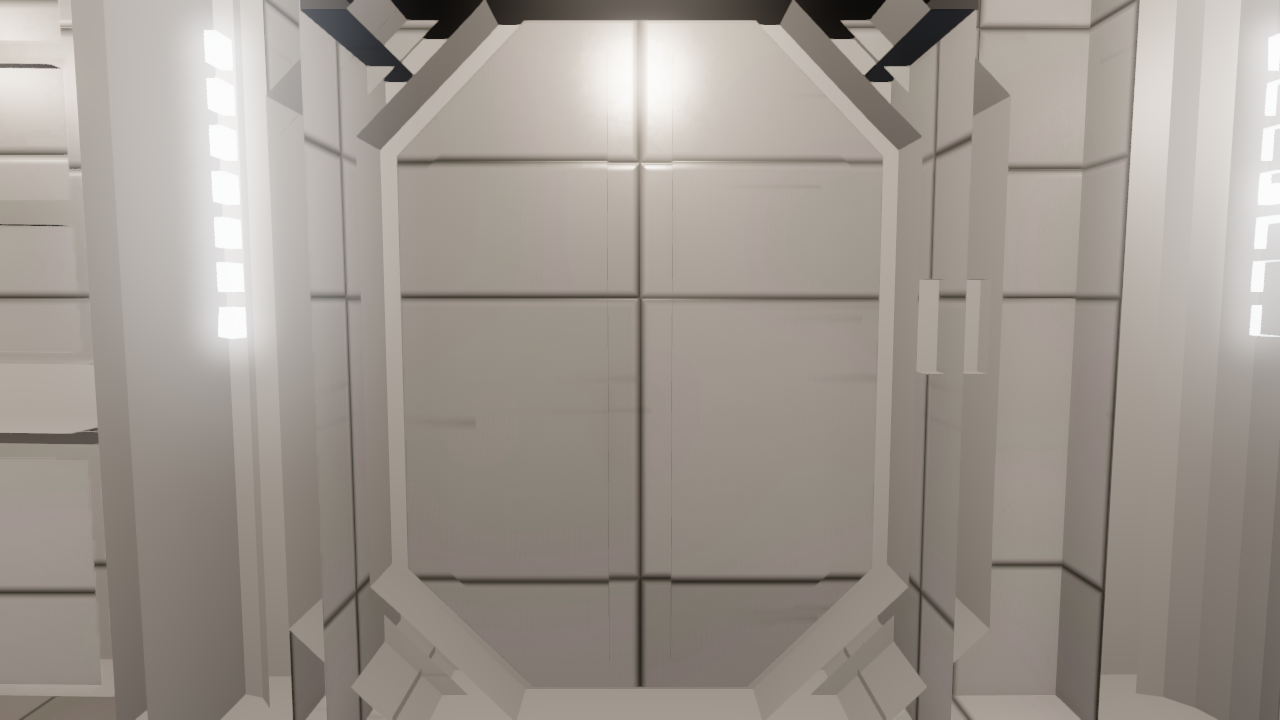
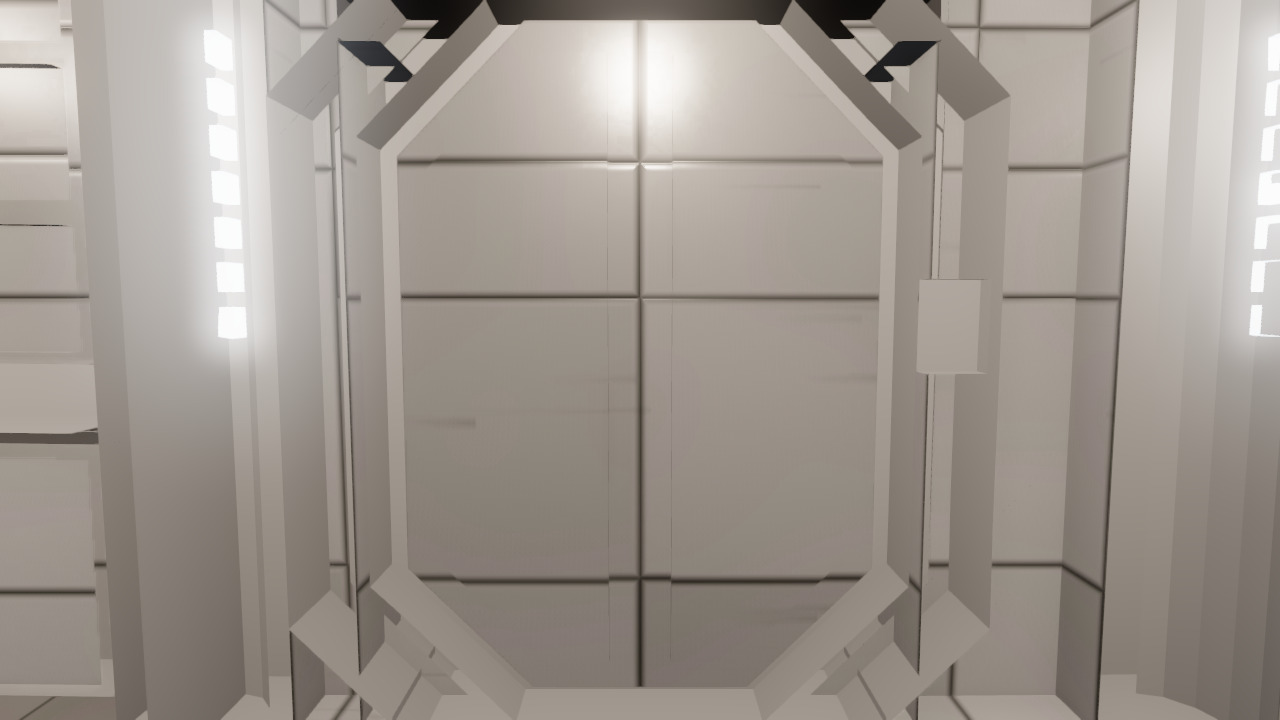
Stop every vestibule standing 0.219 m proud inside the corridor
The other half of judge-3w's door finding, and the last geometric one at that
doorway. It described "the dark jamb pieces are the neighbouring room's wall
panelling standing proud through the corridor's white wall"; that is literally
what it is.

`build_deck` ended each render vestibule at `cz - corridor_profile()["half_w"]`
-- the MEASURED COLLISION plane at 1.0806 m -- while the corridor's render wall
is at `corridor_width_m / 2` = 1.30 m. So a 2.1 m tall passage projected 0.219 m
into a 3.0 m corridor at all six doors, showing its top face and both flanks
through the wall. It is the same 0.219 m as the collision hole earlier in this
session, inherited rather than coincidental: the shell was correctly moved onto
the measured plane and this expression was copied along with it. The render
passage stops at the render wall; the collision passage stops at the collision
wall; they are different planes and one number cannot serve both.

The corridor's own `deck_panel` spans the full width, so the render floor
already covers from the new plane inward and the two abut with nothing between
them. `floor_holes` still finds none, and the deck still walks: 6.31 m -> 0.04 m
into docking_bays, never leaving the floor, five inhabitants looking up.

THE GATE MEASURES THE SHIPPED MESH, and getting there took two tries. The first
version built a probe vestibule by passing the correct plane in and checking
where it landed -- an assertion that cannot fail, which is the exact defect this
[…]

diff --git a/station/deck.py b/station/deck.py
@@ -585,15 +585,40 @@ def build_deck(schema, profile, sector, ring, deck, with_rooms=True,
         if dx is None:
             continue
         inner = q["z_m"] + room_interior_half_m(schema, profile, q)
+        # THE RENDER PASSAGE STOPS AT THE RENDER WALL. THE COLLISION ONE STOPS
+        # AT THE COLLISION WALL. They are different planes and using one number
+        # for both is wrong in whichever direction you pick it.
+        #
+        # This ended at `cz - corridor_profile()["half_w"]`, the MEASURED
+        # collision plane at 1.0806 m, and the corridor's render wall is at
+        # `corridor_width_m / 2` = 1.30 m. So every vestibule on the station
+        # projected 0.219 m into the corridor -- a 2.1 m box standing proud
+        # inside a 3.0 m space, showing its top face and both flanks through the
+        # wall. judge-3w photographed it at 2.5 m from a door and described "the
+        # dark jamb pieces are the neighbouring room's wall panelling standing
+        # proud through the corridor's white wall"; docs/judge3x-door-4m.png is
+        # the same defect after the apertures were closed.
+        #
+        # It is the same 0.219 m as the collision bug earlier in this session,
+        # inherited: the shell was correctly moved onto the measured plane and
+        # this expression was copied along with it. The corridor's own
+        # `deck_panel` spans the full width, so the render floor already covers
+        # from this plane inward and the two abut with nothing between them.
         vv, vt, vg = vestibule_render(
             radius, q["angle_deg"] + math.degrees(dx / radius), inner,
-            cz - C.corridor_profile()["half_w"],
+            cz - K.PROVISIONAL["corridor_width_m"] / 2.0,
             K.PROVISIONAL["door_width_m"], K.PROVISIONAL["door_height_m"])
         off, t0 = len(V), len(T)
         V.extend(vv)
         T.extend((a + off, b + off, c + off) for a, b, c in vt)
         G.extend((n, lo_ + t0, hi_ + t0) for n, lo_, hi_ in vg)
         stats["vestibule_tris"] = stats.get("vestibule_tris", 0) + len(vt)
+        # WHERE they went, so a gate can find them. Their group names are the
+        # corridor kit's own, deliberately -- that is what makes them take the
+        # same materials -- which means a name cannot tell a vestibule from the
+        # corridor it opens off. Nothing could ask "does any vestibule poke
+        # through the wall" until the answer was recorded here.
+        stats.setdefault("vestibule_spans", []).append((t0, len(T)))
     stats["triangles"] = len(T)
     return V, T, G, stats
 
@@ -803,6 +828,29 @@ def _selftest():
     print(f"  {len(cm['rooms'])} doors, vestibules "
           f"{min(r['vestibule_m'] for r in cm['rooms']):.2f}-"
           f"{max(r['vestibule_m'] for r in cm['rooms']):.2f} m")
+
+    # AND NO VESTIBULE POKES INTO THE CORRIDOR. The opposite failure to the one
+    # above and it was shipped: the render passage ended on the MEASURED
+    # collision plane (1.0806 m) while the corridor's render wall is at
+    # `corridor_width_m / 2` (1.30 m), so a 2.1 m box stood 0.219 m proud inside
+    # a 3.0 m space at all six doors, showing its top face and both flanks
+    # through the wall. Measured on the built mesh rather than on the argument,
+    # because the argument is exactly what was wrong.
+    #
+    # ON THE SHIPPED MESH, not on a probe. `build_deck` records where it put
+    # each vestibule's triangles (`stats["vestibule_spans"]`) precisely so this
+    # can address them: they carry the corridor kit's own group names on
+    # purpose, so a name is no way to find them, and a probe built by passing
+    # the right plane in is an assertion that cannot fail.
+    wall_z = cz - K.PROVISIONAL["corridor_width_m"] / 2.0
+    fv, ft, _fg, fs = build_deck(schema, profile, "blue", 0, 0)
+    deepest = max((fv[i][2] for lo_, hi_ in fs.get("vestibule_spans", ())
+                   for tri in ft[lo_:hi_] for i in tri), default=wall_z)
+    check("no vestibule stands proud of the corridor wall",
+          deepest <= wall_z + 1e-6,
+          f"a vestibule reaches z={deepest:.3f}, {deepest - wall_z:.3f} m past "
+          f"the render wall face at {wall_z:.3f} -- it will show its top face "
+          f"and both flanks through the corridor wall")
 
     # THE FURNITURE IS SOLID, and it has to stay solid AND stay out of the way.
     # Both directions can fail: no boxes at all is a player walking through
